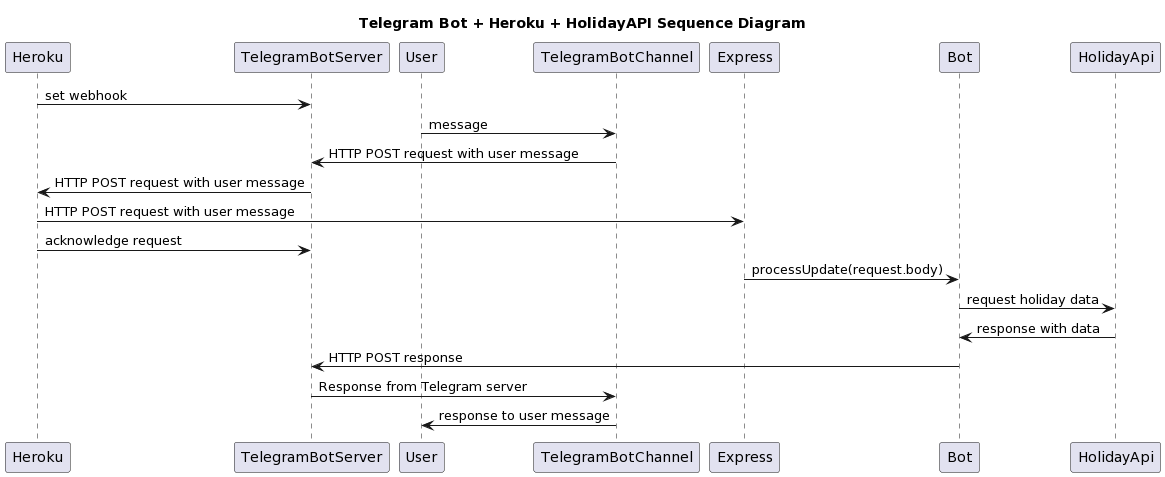
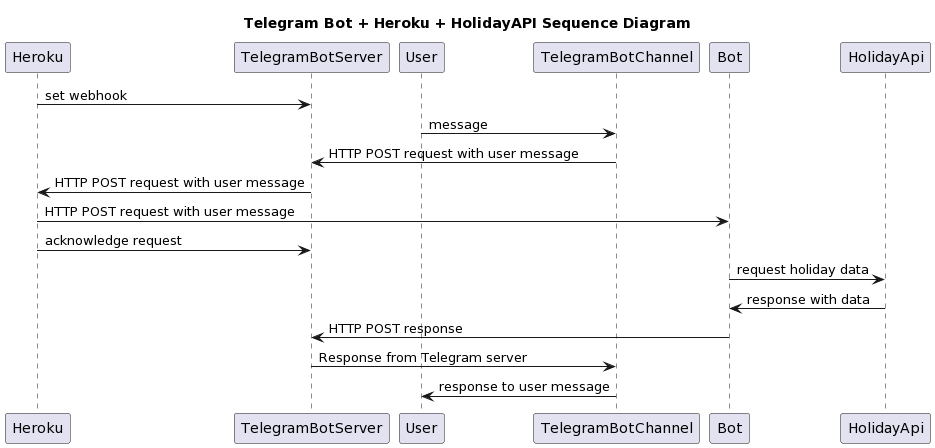
updated design.md

diff --git a/Design.md b/Design.md
@@ -42,9 +42,8 @@ Heroku -> TelegramBotServer: set webhook
 User -> TelegramBotChannel: message
 TelegramBotChannel -> TelegramBotServer: HTTP POST request with user message
 TelegramBotServer -> Heroku: HTTP POST request with user message
-Heroku -> Express: HTTP POST request with user message
+Heroku -> Bot: HTTP POST request with user message
 Heroku -> TelegramBotServer: acknowledge request
-Express -> Bot: processUpdate(request.body)
 Bot -> HolidayApi: request holiday data
 HolidayApi -> Bot: response with data
 Bot -> TelegramBotServer: HTTP POST response
